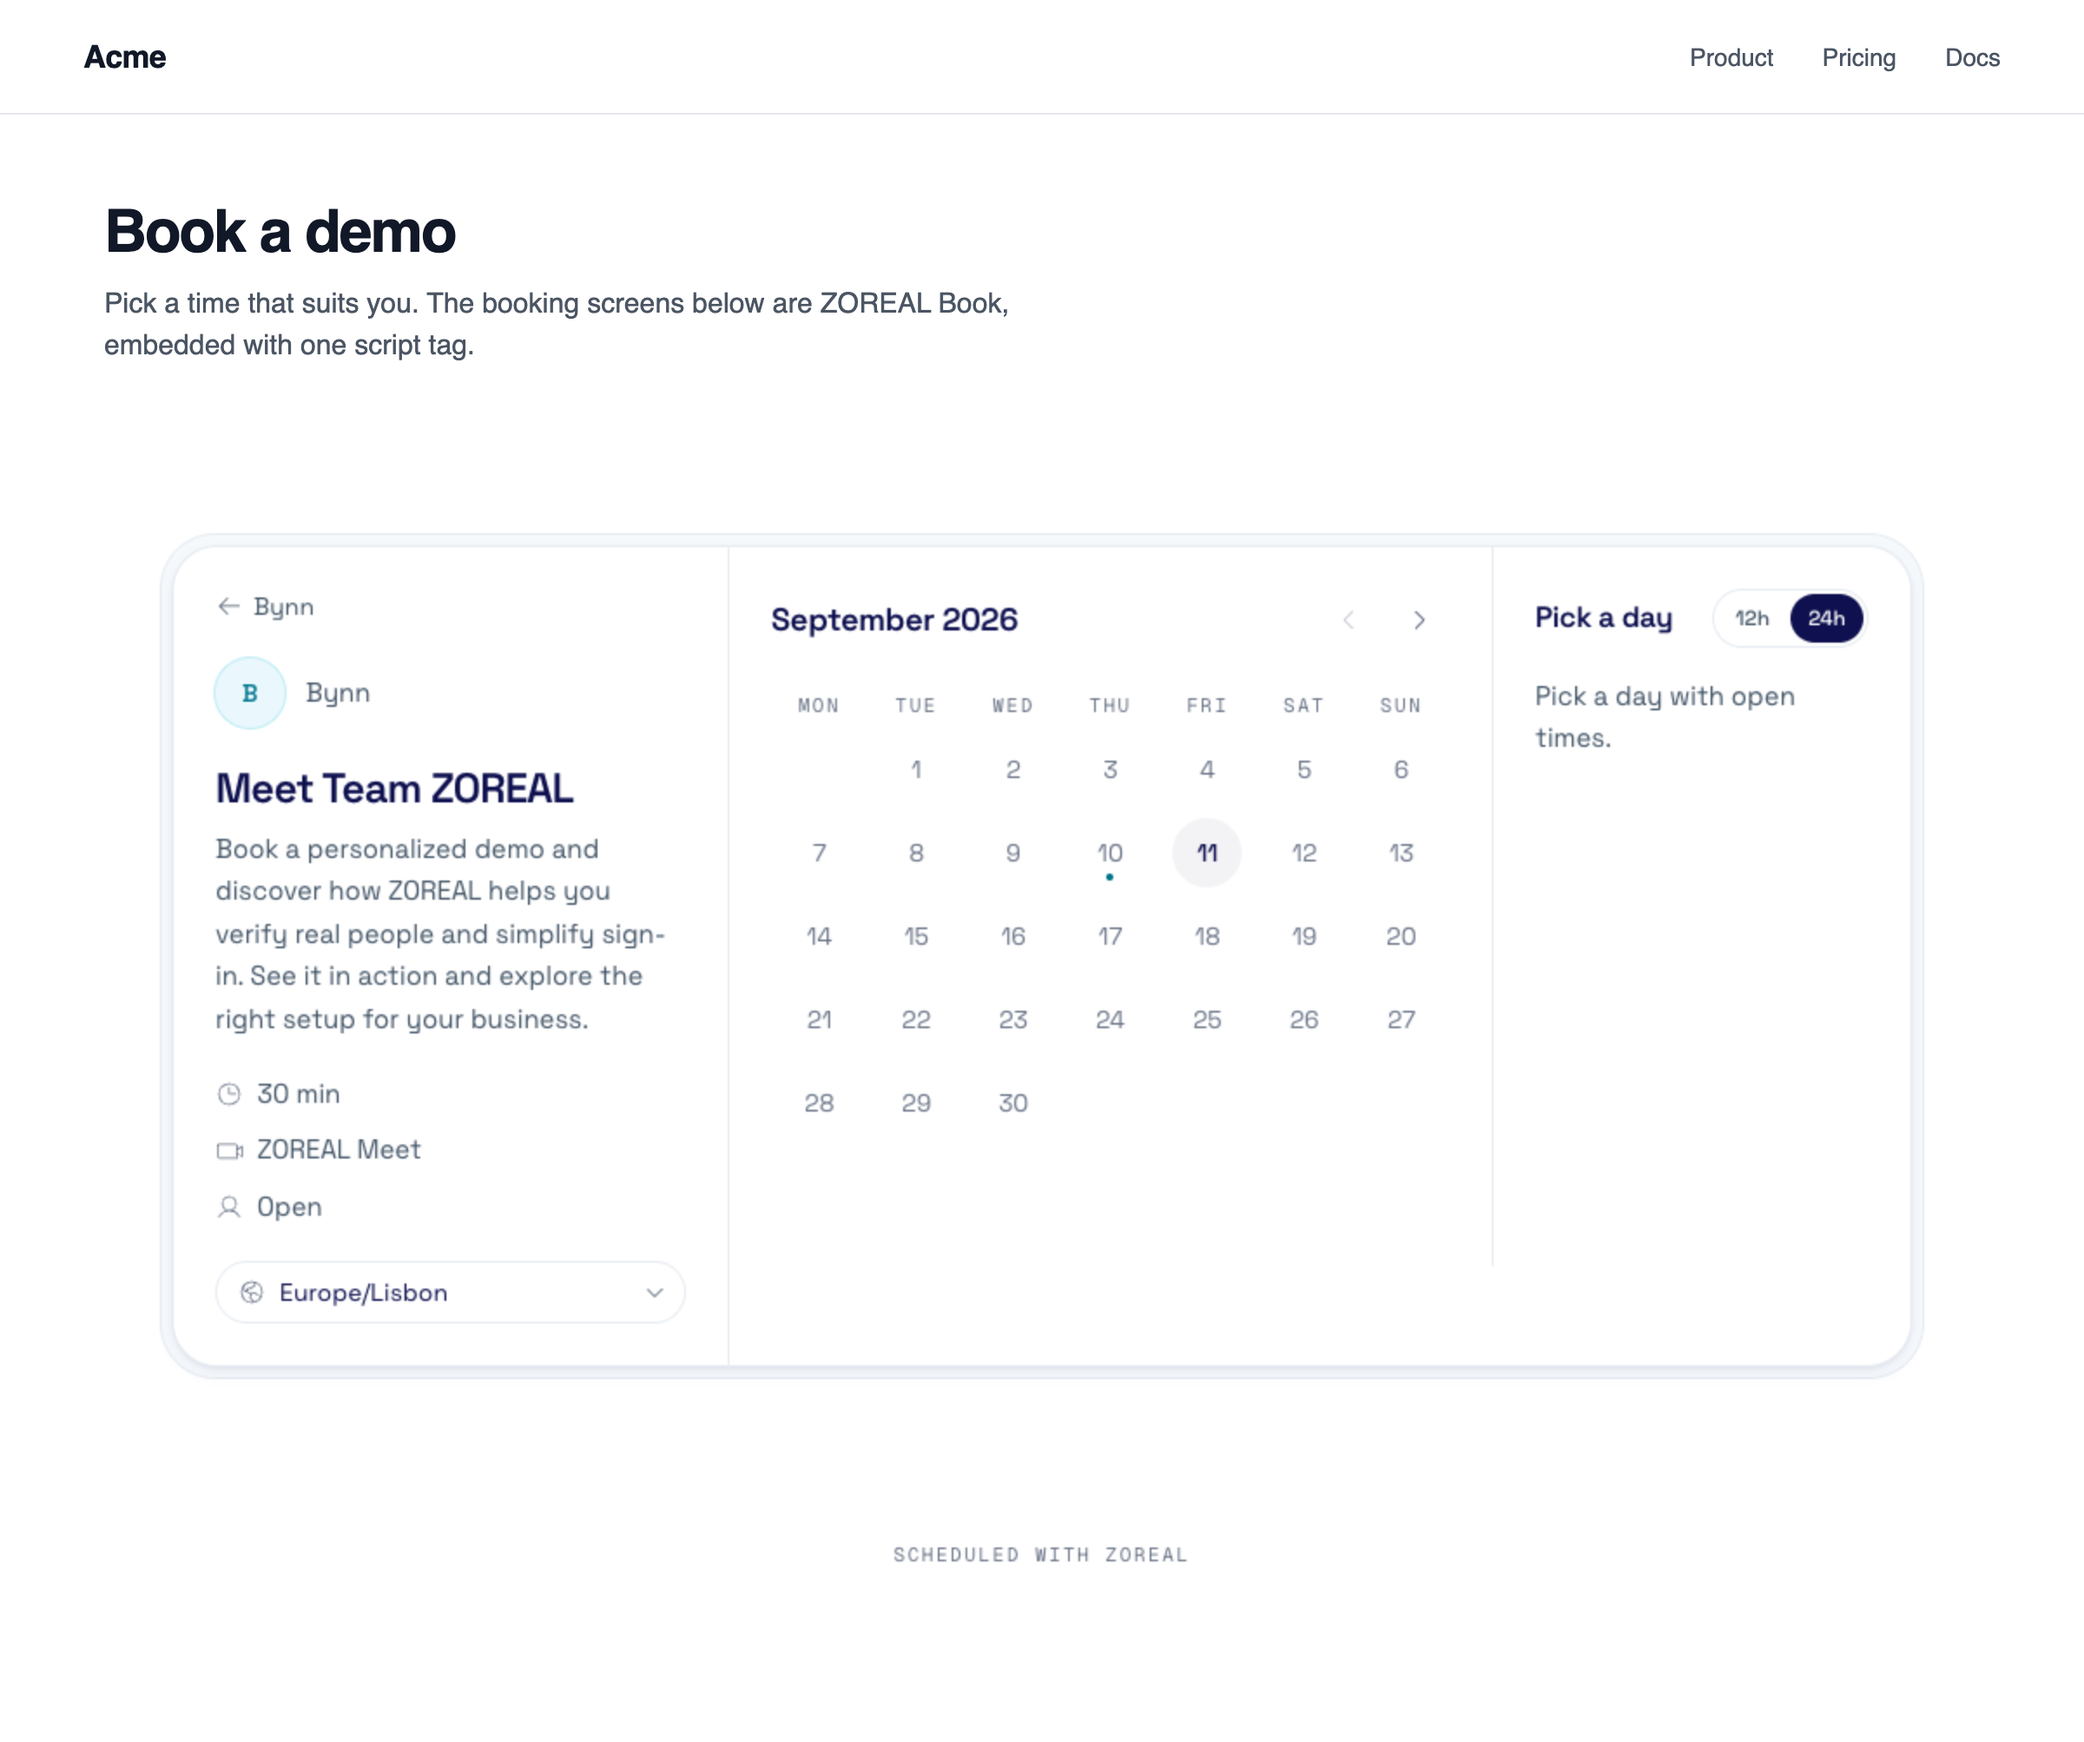
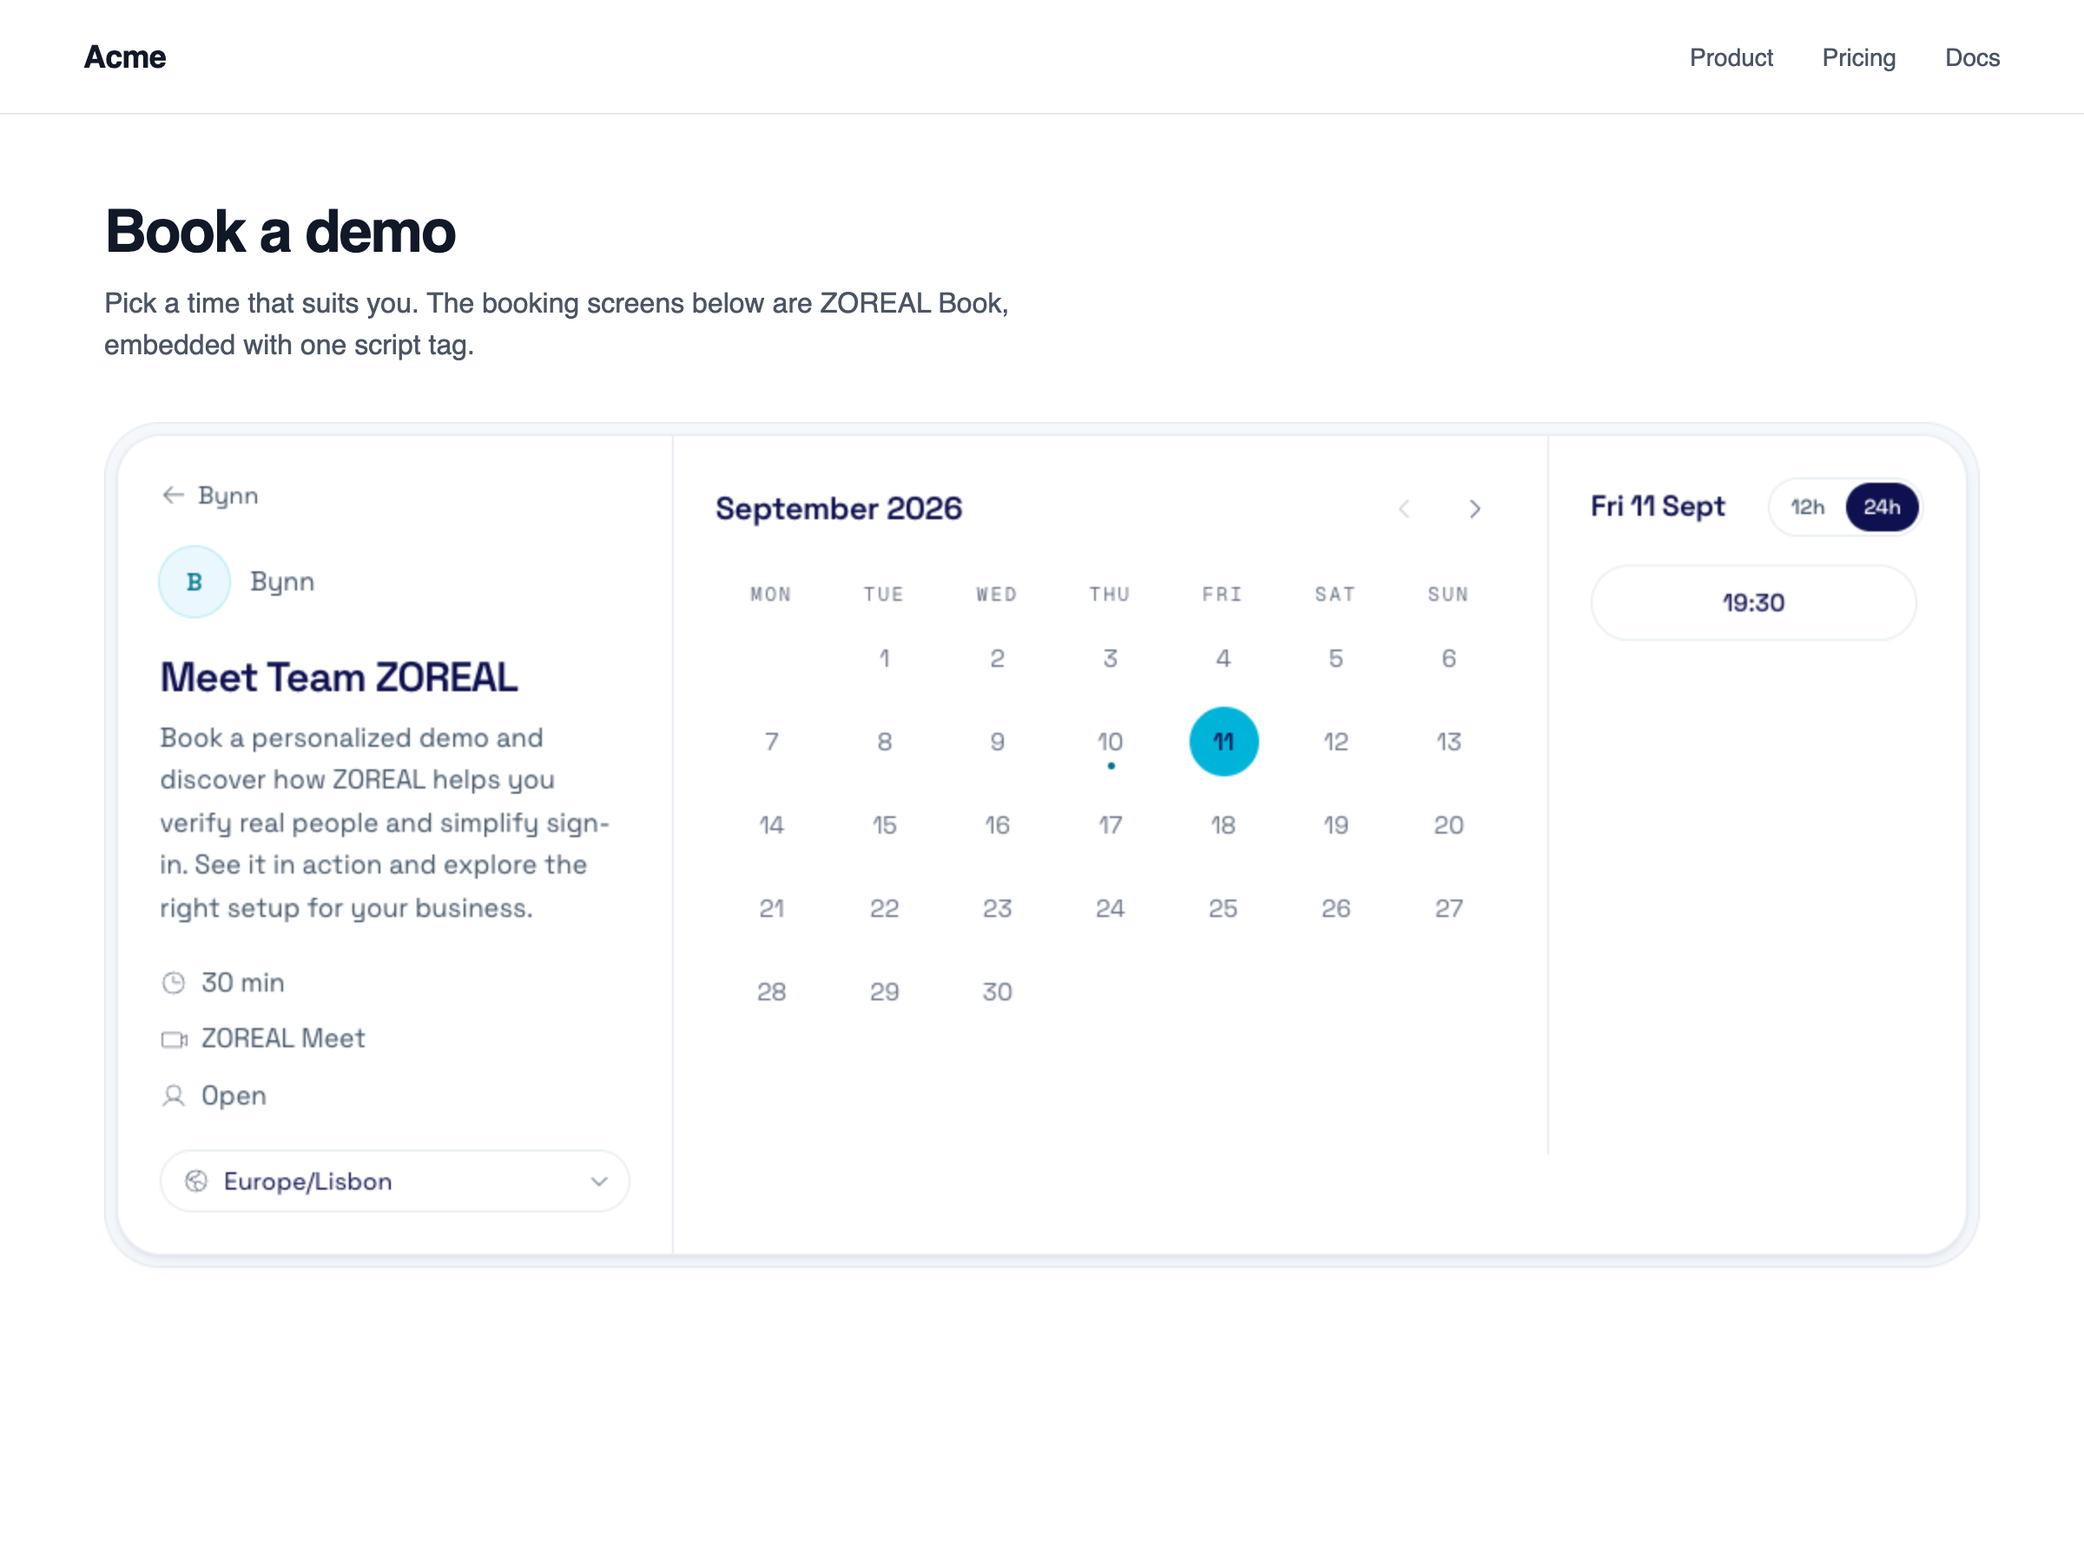
README: the layer as it is now, light and dark [skip publish]

diff --git a/README.md b/README.md
@@ -53,6 +53,12 @@ leak out:
 
 ![The booking screens open as a layer over a host page, with the page dimmed behind](docs/modal.png)
 
+The same layer with the browser set to dark. Nothing is configured for this:
+the page follows the browser's own scheme unless you pin one, and the frame
+stays transparent either way:
+
+![The same layer on a dark host page, the booking card in its dark scheme](docs/modal-dark.png)
+
 ## Install
 
 ```sh
